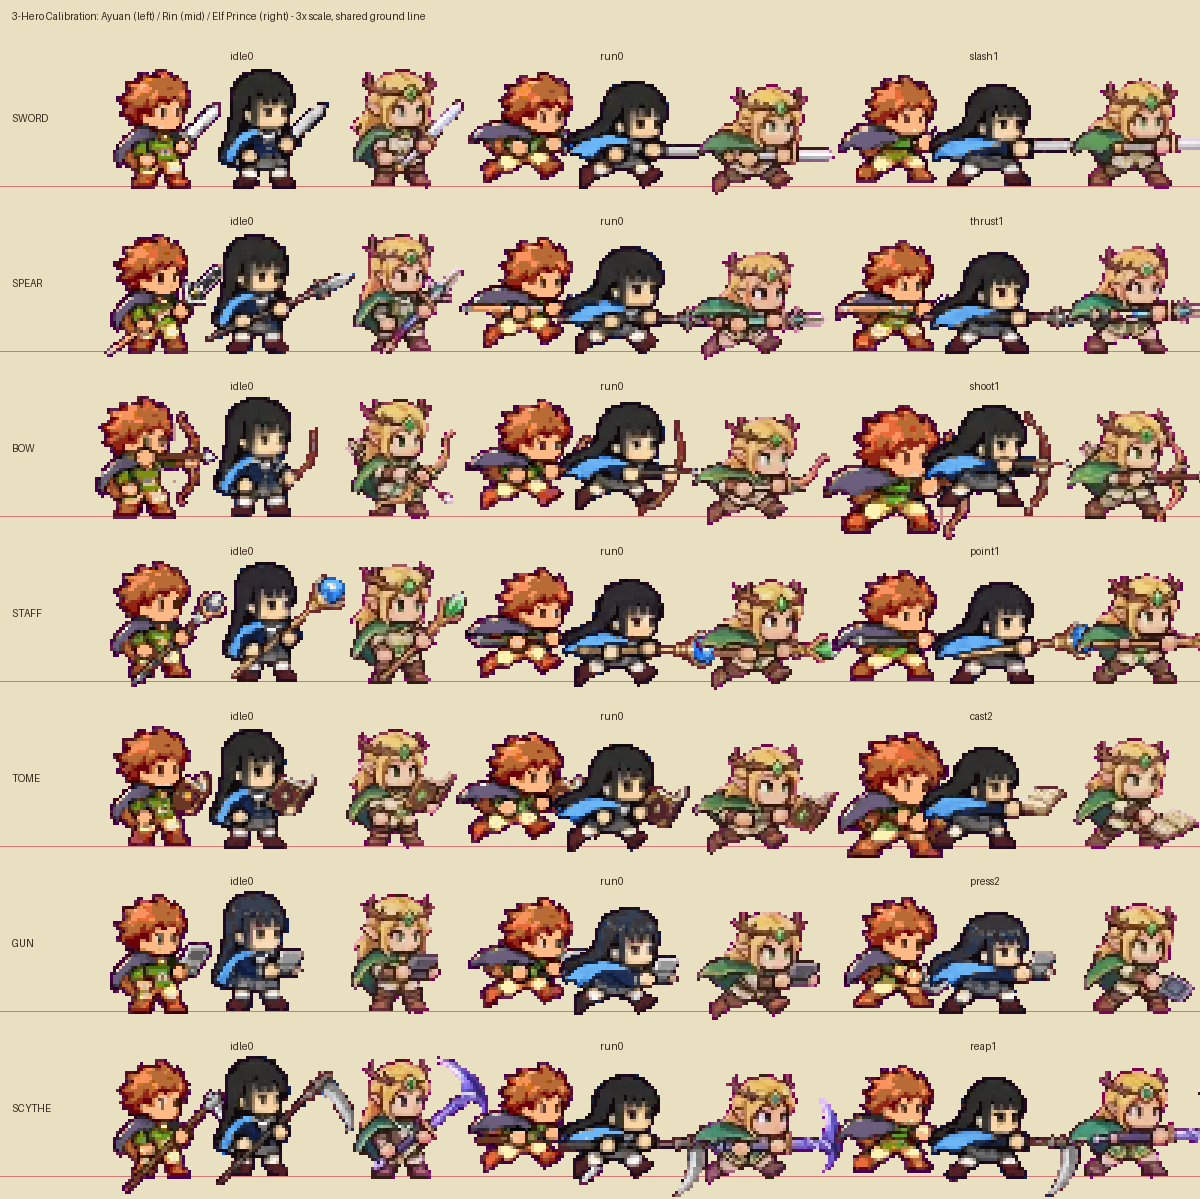
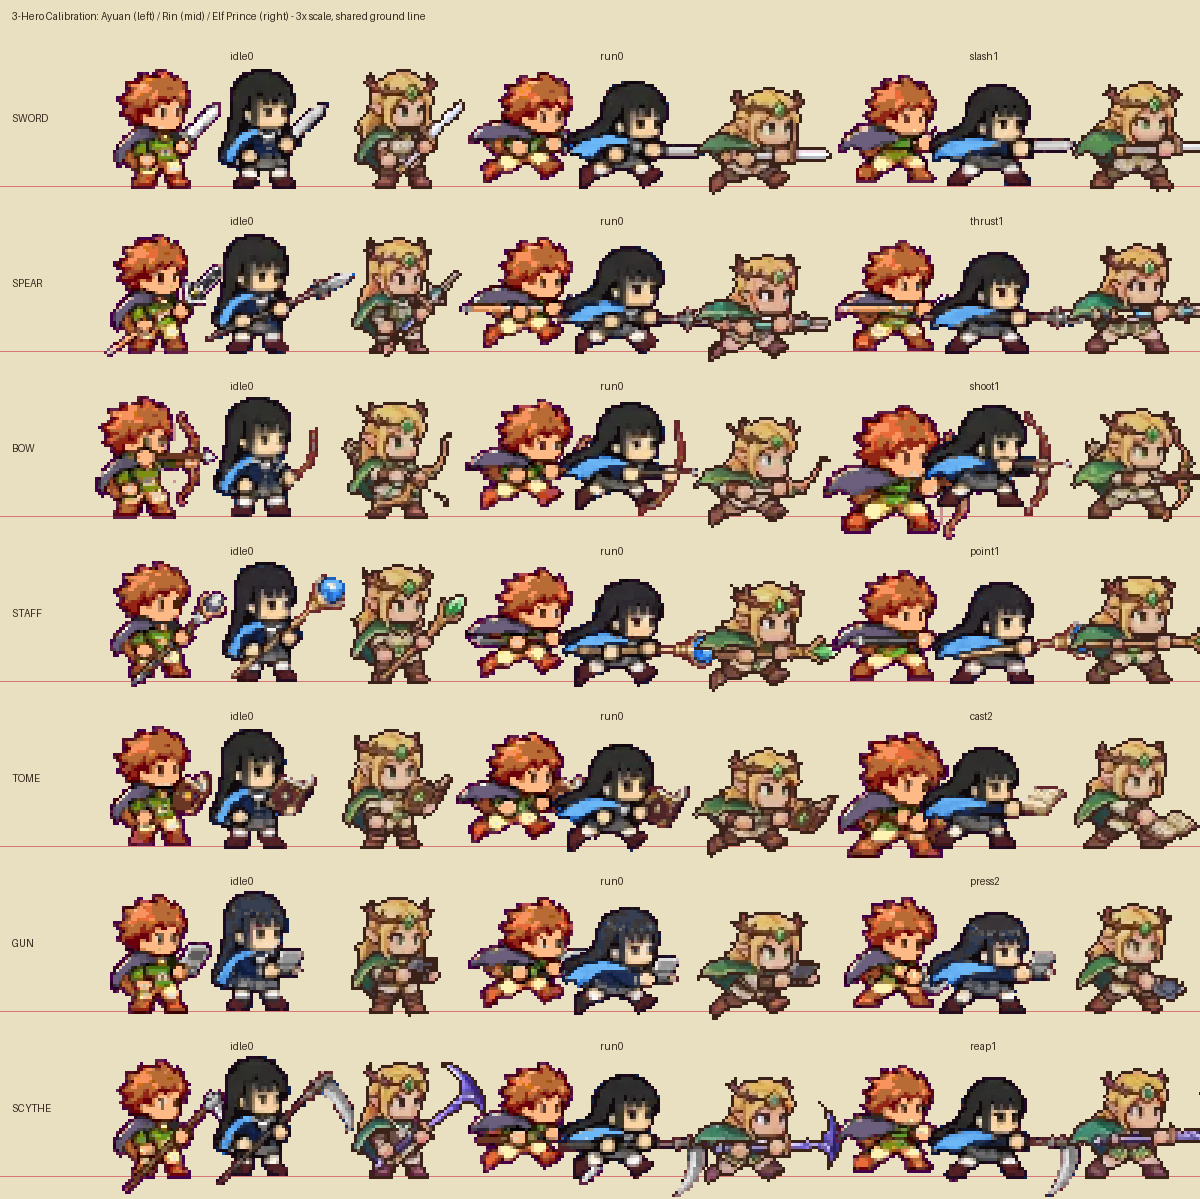
精修精灵王子全七武器深棕描边、去紫红杂点与明暗对比

diff --git a/tools/pixel/build_heroE_new.py b/tools/pixel/build_heroE_new.py
@@ -37,11 +37,15 @@ ATK = {
 TAIL = [("up", 1), ("finish", 1), ("atk", 2), ("big", 1)]
 
 
-def cut_sheet(path):
+OUTLINE = np.array([58, 34, 24], dtype=np.uint8)
+CROSS = np.array([[0, 1, 0], [1, 1, 1], [0, 1, 0]])
+
+
+def cut_sheet(path, weapon):
     im = Image.open(path).convert("RGB")
     a = np.array(im)
     r, g, b = a.astype(int).transpose(2, 0, 1)
-    bg_mag = (r > 165) & (b > 135) & (np.minimum(r, b) - g > 68)
+    bg_mag = (r > 155) & (b > 125) & (np.minimum(r, b) - g > 55)
     mask = ~bg_mag
 
     lab, _ = ndimage.label(mask)
@@ -84,7 +88,7 @@ def cut_sheet(path):
         # Remove 1-pixel magenta fringe along outer boundary
         sr, sg, sb = sub.astype(int).transpose(2, 0, 1)
         edge = m & ~ndimage.binary_erosion(m, structure=np.ones((3, 3)), border_value=0)
-        pink_edge = edge & (sr > sg + 30) & (sb > sg + 25) & ((sr + sb) > 220)
+        pink_edge = edge & (sr > sg + 25) & (sb > sg + 20) & ((sr + sb) > 205)
         m = m & ~pink_edge
 
         # Clean isolated 1-3px detached dust
@@ -94,20 +98,14 @@ def cut_sheet(path):
             sizes[0] = 0
             m = (sizes >= 4)[clab]
 
-        # Gentle magenta despill + match Ayuan's warm dark-brown outline & highlight ceiling (~200)
-        edge2 = m & ~ndimage.binary_erosion(m, structure=np.ones((3, 3)), border_value=0)
+        # Clean purplish/magenta background-tainted pixels (antlers, hair tips, cape, bow); keep purple scythe blade
         sr, sg, sb = sub.astype(int).transpose(2, 0, 1)
-        dark_mag = edge2 & (sr < 105) & (sg < 65) & (sb < 105) & (sb > sg + 18) & (sr > sg + 18)
-        sub[dark_mag, 0] = 52
-        sub[dark_mag, 1] = 30
-        sub[dark_mag, 2] = 22
-        # Soften overly bright non-metal character highlights (~215 -> ~200) to match Ayuan's luminance
-        lum = 0.299 * sr + 0.587 * sg + 0.114 * sb
-        warm_bright = m & (lum > 185) & ((sr - sb) > 18)  # blonde hair / warm tunic, excluding cool silver/emerald
-        sub[warm_bright] = np.clip(np.rint(sub[warm_bright].astype(float) * 0.94), 0, 255).astype(np.uint8)
-        # Deepen dark brown outlines slightly to match Ayuan's crisp outline contrast
-        dark_out = m & (sr < 88) & (sg < 62) & (sb < 62) & (sr > sg)
-        sub[dark_out] = np.clip(np.rint(sub[dark_out].astype(float) * 0.85), 0, 255).astype(np.uint8)
+        purp = m & (sr > sg + 14) & (sb > sg + 12) & (sb > 55) & (sr < 185)
+        if weapon != "scythe":
+            sub[purp] = OUTLINE
+        else:
+            edge2 = m & ~ndimage.binary_erosion(m, structure=np.ones((3, 3)), border_value=0)
+            sub[purp & edge2] = OUTLINE
 
         rgba = np.dstack([sub, (m.astype(np.uint8) * 255)])
         fr = Image.fromarray(rgba)
@@ -198,17 +196,37 @@ def main():
     processed = {}
     scales = {}
     for w, path in SOURCES.items():
-        raw_frames = cut_sheet(path)
+        raw_frames = cut_sheet(path, w)
         t0, b0, _ = person_metrics(raw_frames[0])
         t1, b1, _ = person_metrics(raw_frames[1])
         h0, h1 = b0 - t0 + 1, b1 - t1 + 1
         sc = float(np.mean([old_h0 / h0, old_h1 / h1]))
         scales[w] = sc
 
-        scaled = [
-            im.resize((max(1, round(im.width * sc)), max(1, round(im.height * sc))), Image.Resampling.NEAREST)
-            for im in raw_frames
-        ]
+        scaled = []
+        for im in raw_frames:
+            sm = im.resize((max(1, round(im.width * sc)), max(1, round(im.height * sc))), Image.Resampling.NEAREST)
+            arr = np.array(sm).copy()
+            m = arr[..., 3] > 127
+            sr, sg, sb = arr[..., 0].astype(int), arr[..., 1].astype(int), arr[..., 2].astype(int)
+            if w != "scythe":
+                purp = m & (sr > sg + 12) & (sb > sg + 10) & (sr < 190)
+                arr[purp, :3] = OUTLINE
+            # Restore continuous 1px crisp dark-brown outer outline (Ayuan style)
+            edge = m & ~ndimage.binary_erosion(m, structure=CROSS, border_value=0)
+            arr[edge, :3] = OUTLINE
+            # Tone & contrast calibration: soften overly bright blonde/cream blocks, deepen mid-shadows
+            sr, sg, sb = arr[..., 0].astype(float), arr[..., 1].astype(float), arr[..., 2].astype(float)
+            lum = 0.299 * sr + 0.587 * sg + 0.114 * sb
+            tunic_hair = m & (~edge) & (lum > 175) & ((sr - sb) > 14)
+            arr[tunic_hair, :3] = np.clip(np.rint(arr[tunic_hair, :3].astype(float) * 0.90), 0, 255).astype(np.uint8)
+            mid_dark = m & (~edge) & (lum >= 55) & (lum <= 135)
+            arr[mid_dark, :3] = np.clip(np.rint(arr[mid_dark, :3].astype(float) * 0.92), 0, 255).astype(np.uint8)
+            inner_dark = m & (~edge) & (sr < 82) & (sg < 58) & (sb < 58)
+            arr[inner_dark, :3] = OUTLINE
+            arr[~m, :3] = 0
+            arr[..., 3] = np.where(m, 255, 0)
+            scaled.append(Image.fromarray(arr))
         processed[w] = scaled
         st0, sb0, _ = person_metrics(scaled[0])
         print(f"  {w:6s}: 33f | raw=({h0:.0f},{h1:.0f}) | scale={sc:.4f} | scaled_h={sb0 - st0 + 1:.1f}px | idle0={scaled[0].size}")

diff --git a/docs/TODO.md b/docs/TODO.md
@@ -320,3 +320,4 @@
 - 校准基准：每套单一固定等比缩放（`0.5036`～`0.5141`），`idle0` 身高与旧版一致（40–41px），清理洋红残边与杂点，按支撑脚/重心定锚点。
 - 已接入 `js/sprites.js`（`SETS.heroENew`，`drawHero` 支持精灵王子原生使用 `gun`/`tome`/`scythe`）、`demo/intro.html`（`h=e`）、`demo/palace.html`、`js/ui.js` 及 `tools/frames.html`。
 - 三角色对标校准与实测（2026-11-28）：以阿远（`Gemini2Cal`，`idle0` 身高 39–40px、亮部约 200、描边约 29）为基准，微调精灵王子高光（×0.94 对齐约 200）与暗棕描边（×0.85），生成三角色 3x 同落脚线对比图 `art/compare_3heroes.png`（`tools/pixel/build_compare_3heroes.py`）。浏览器基础实测通过（0 控制台报错）：选人页小凛与精灵王子切剑/掌机正常显示且仅展示当前人物（修复精灵王子选掌机头像空白），精灵王子持剑进第 1 站实测走停、翻滚、挥剑与打箱子均无大小跳变/漂移/裁断/空白帧。
+- 精灵王子全 7 套描边与明暗精修（2026-11-28）：按阿远描边风格清理头饰/发尖/披风/弓身紫红背景残色，补齐缩放后连续 1px 深棕外描边 `(58,34,24)`，略压金发与浅衣大块高光（×0.90）并加深局部暗部（×0.92），同步更新 `art/heroENew/atlas.{png,json}`、`compare.png` 及 `art/compare_3heroes.png`。小凛核查无紫红杂点与断边，保持现状。
